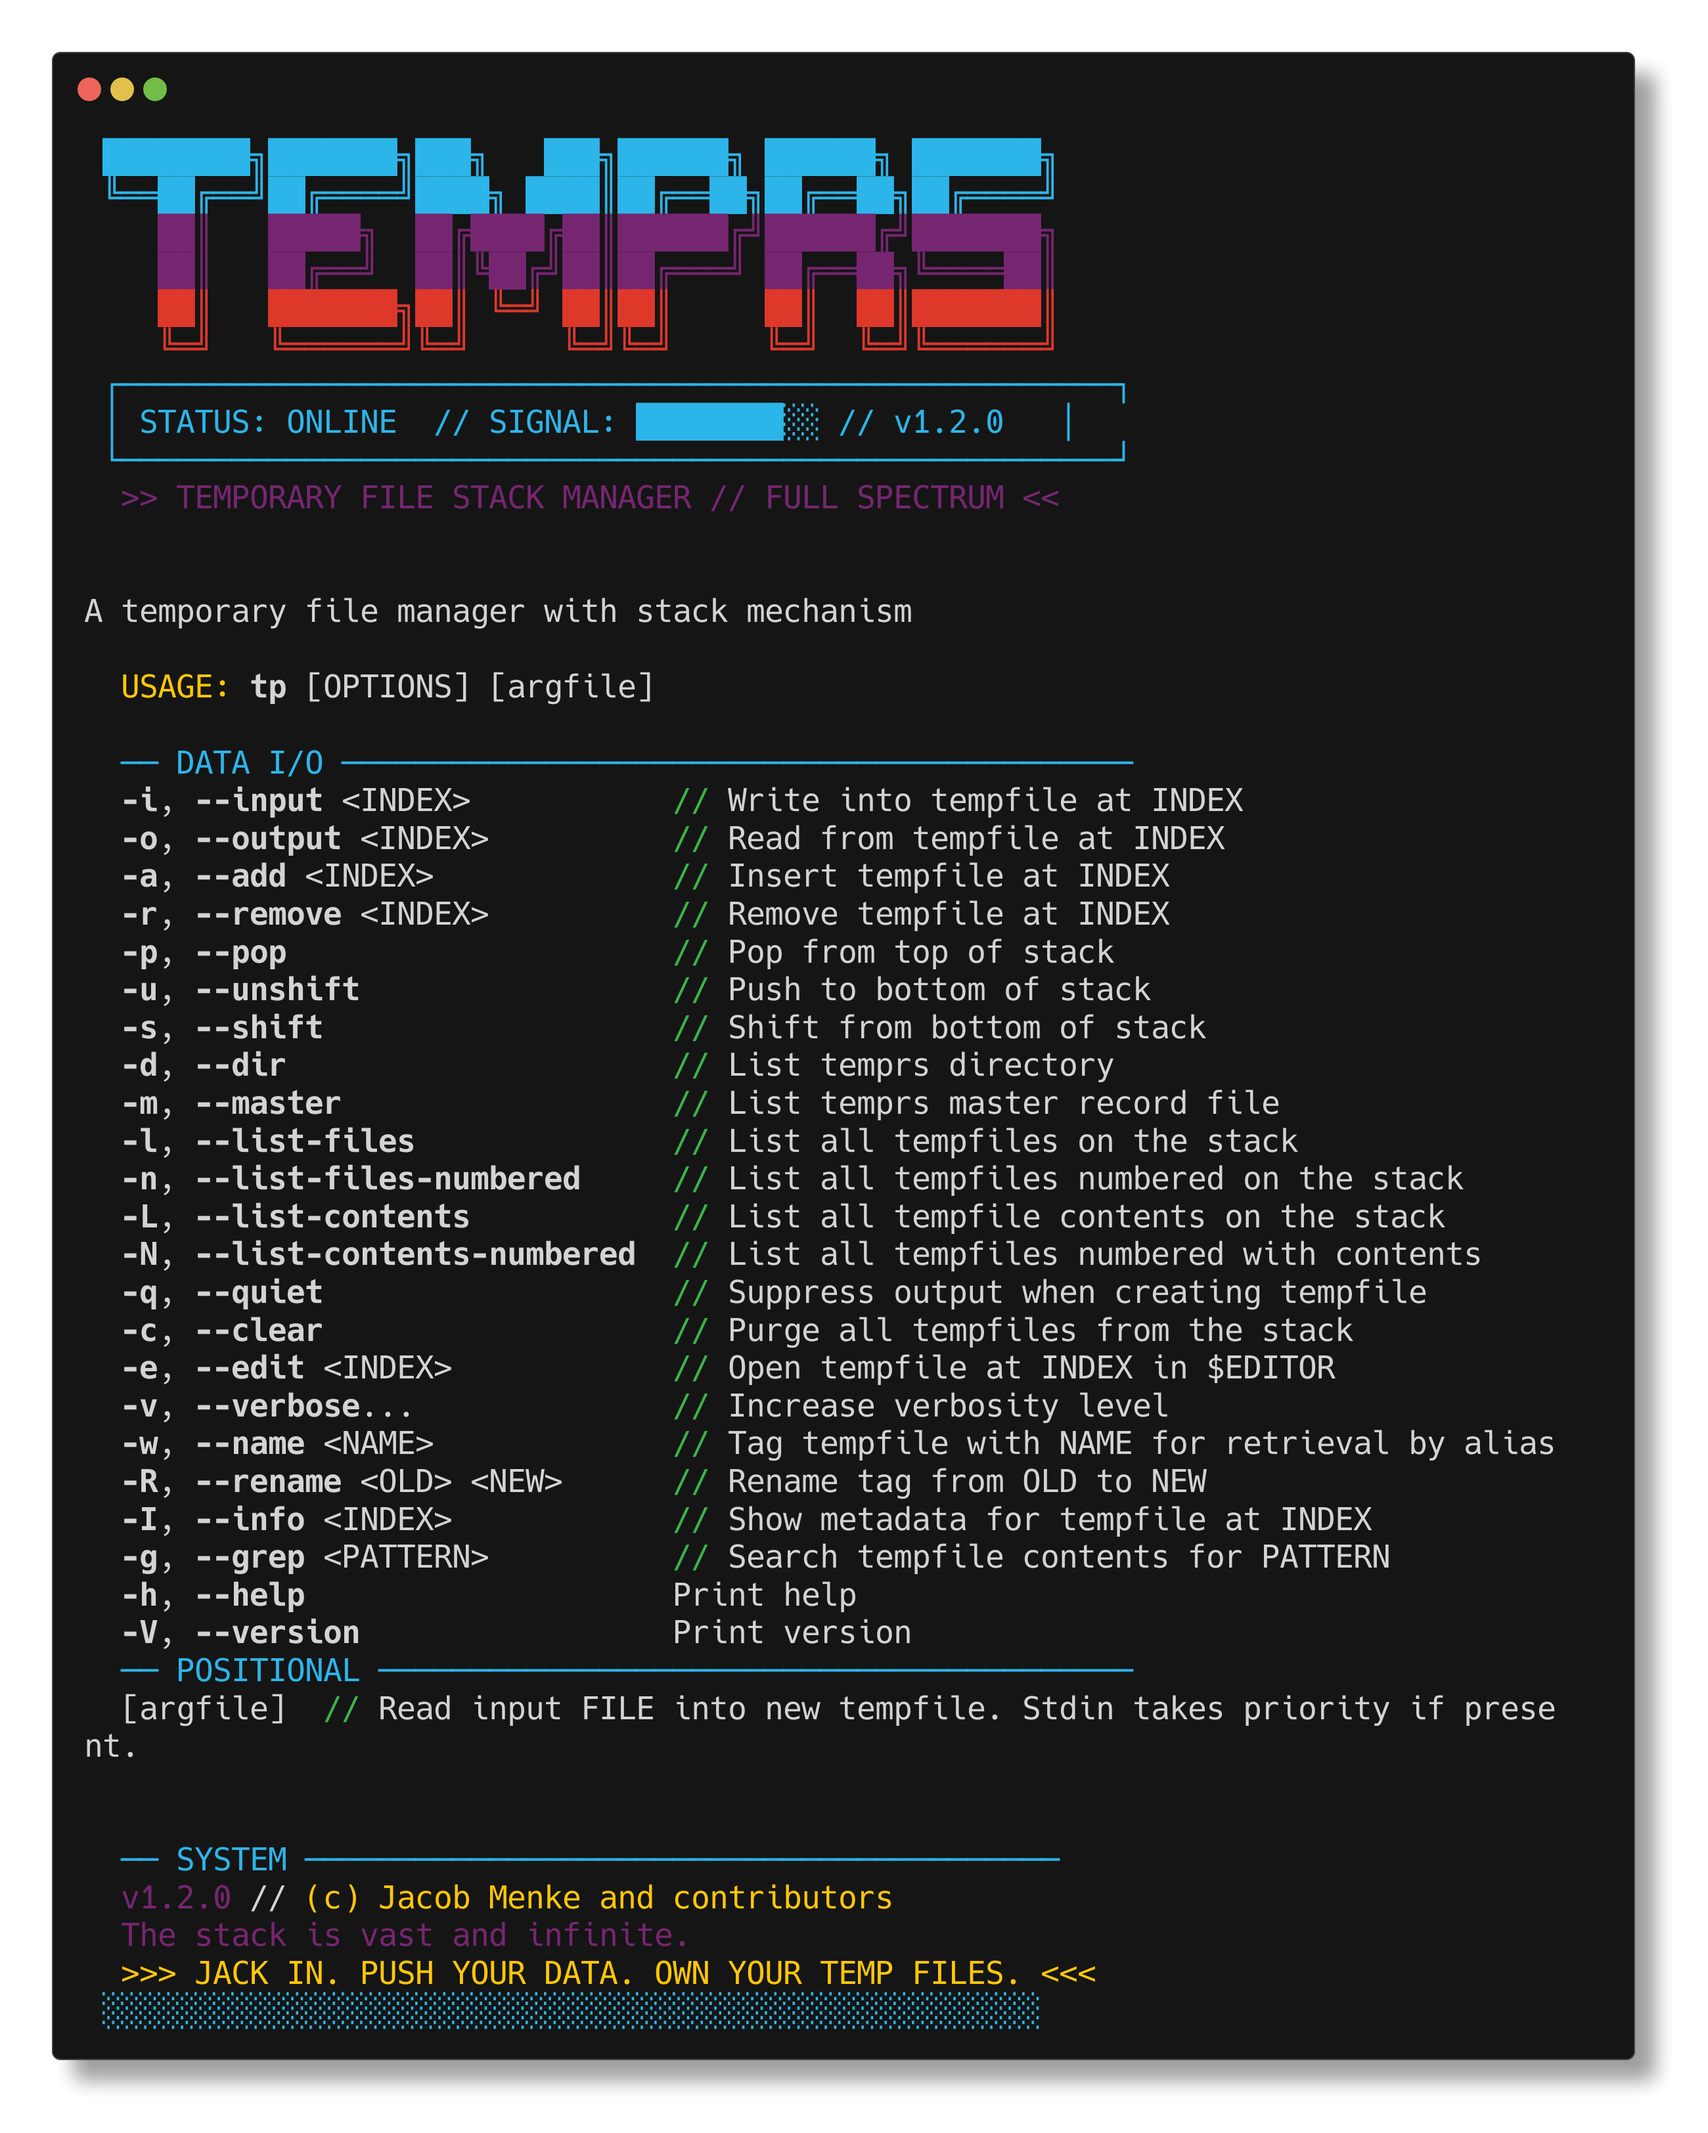
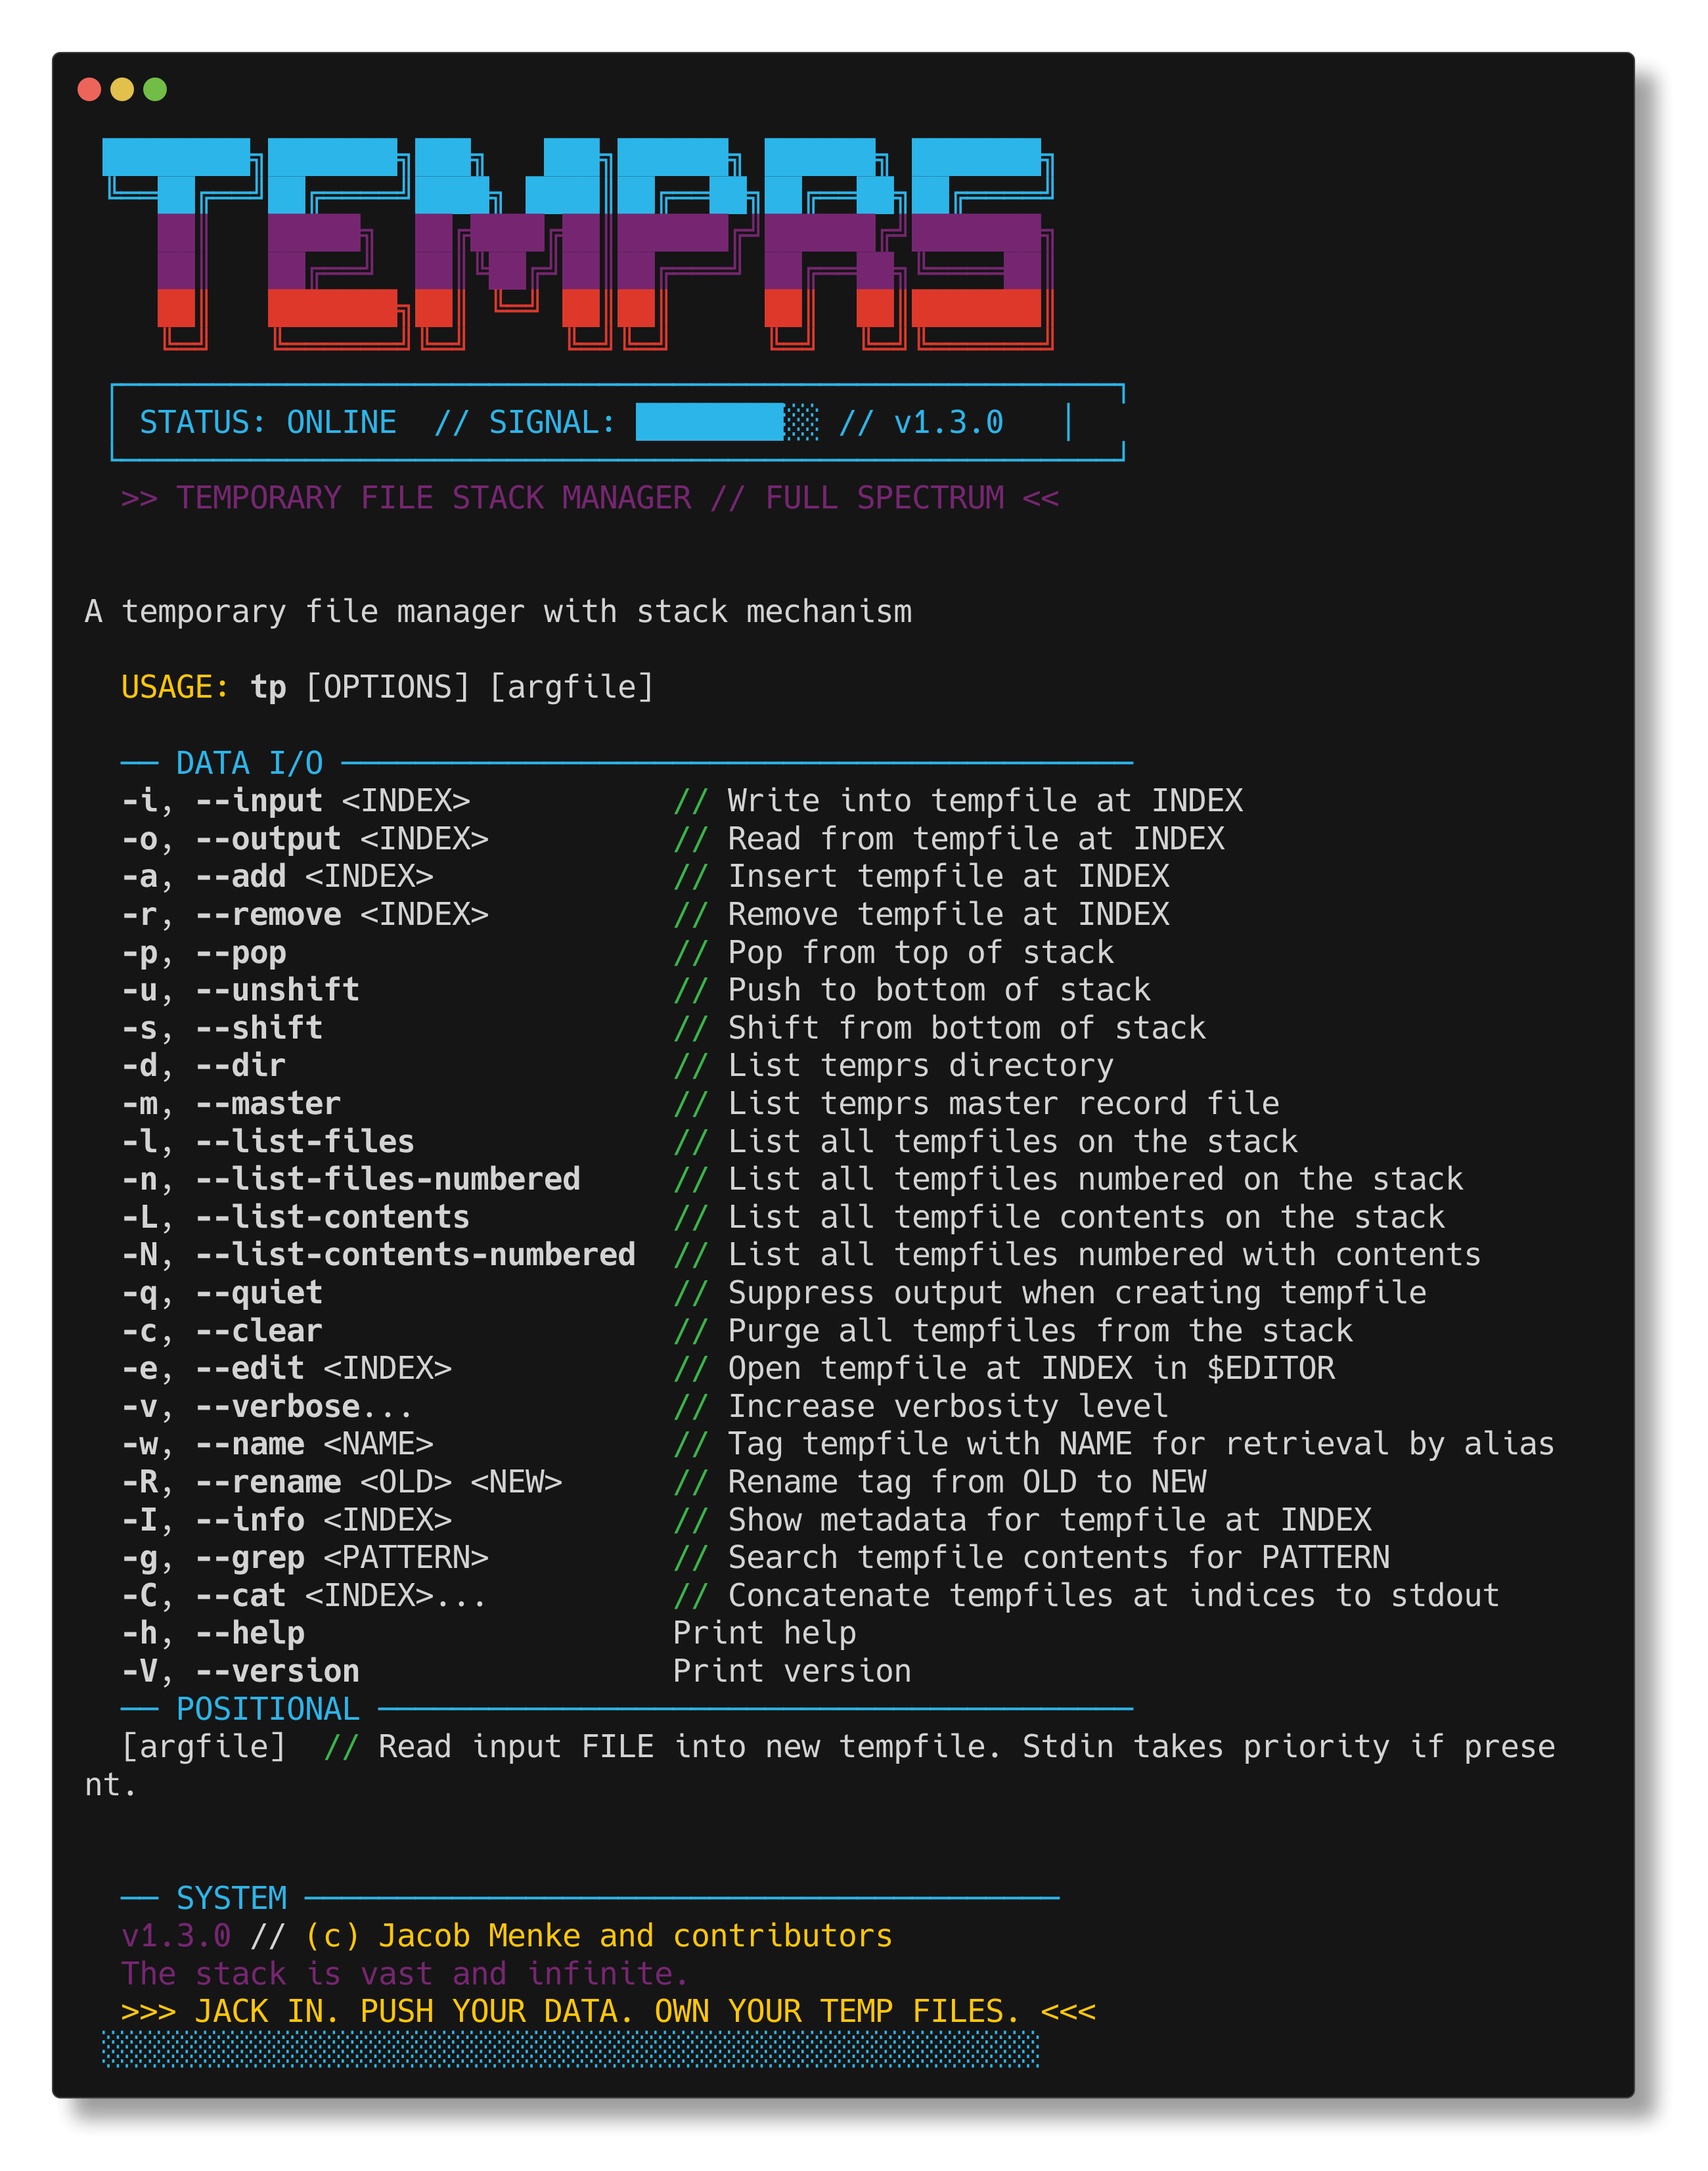
add cat/concatenate (-C), integration tests, bump version to 1.3.0

diff --git a/src/util/consts.rs b/src/util/consts.rs
@@ -36,6 +36,7 @@ pub const TAG: &str = "name";
 pub const RENAME: &str = "rename";
 pub const INFO: &str = "info";
 pub const GREP: &str = "grep";
+pub const CAT: &str = "cat";
 pub const ERR_INVALID_NAME: &str = "Invalid or duplicate name";
 pub const ERR_EDITOR: &str = "Could not open editor";
 
@@ -120,7 +121,7 @@ mod tests {
         let flags = vec![
             DIRECTORY, INPUT, OUTPUT, ADD, REMOVE, POP, UNSHIFT,
             ARGFILE, MASTER, VERBOSE, LIST_FILES, LIST_FILES_NUMBERED,
-            LIST_CONTENTS, LIST_CONTENTS_NUMBERED, CLEAR, SHIFT, SILENT, EDIT, TAG, RENAME, INFO, GREP,
+            LIST_CONTENTS, LIST_CONTENTS_NUMBERED, CLEAR, SHIFT, SILENT, EDIT, TAG, RENAME, INFO, GREP, CAT,
         ];
         let mut sorted = flags.clone();
         sorted.sort();
@@ -133,7 +134,7 @@ mod tests {
         let flags = vec![
             DIRECTORY, INPUT, OUTPUT, ADD, REMOVE, POP, UNSHIFT,
             ARGFILE, MASTER, VERBOSE, LIST_FILES, LIST_FILES_NUMBERED,
-            LIST_CONTENTS, LIST_CONTENTS_NUMBERED, CLEAR, SHIFT, SILENT, EDIT, TAG, RENAME, INFO, GREP,
+            LIST_CONTENTS, LIST_CONTENTS_NUMBERED, CLEAR, SHIFT, SILENT, EDIT, TAG, RENAME, INFO, GREP, CAT,
         ];
         for f in flags {
             assert_eq!(f, f.to_lowercase(), "flag '{}' should be lowercase", f);
@@ -352,7 +353,7 @@ mod tests {
         let flags = vec![
             DIRECTORY, INPUT, OUTPUT, ADD, REMOVE, POP, UNSHIFT,
             ARGFILE, MASTER, VERBOSE, LIST_FILES, LIST_FILES_NUMBERED,
-            LIST_CONTENTS, LIST_CONTENTS_NUMBERED, CLEAR, SHIFT, SILENT, EDIT, TAG, RENAME, INFO, GREP,
+            LIST_CONTENTS, LIST_CONTENTS_NUMBERED, CLEAR, SHIFT, SILENT, EDIT, TAG, RENAME, INFO, GREP, CAT,
         ];
         for f in flags {
             assert!(!f.contains(' '), "flag '{}' should not contain spaces", f);
@@ -366,7 +367,7 @@ mod tests {
         let flags = vec![
             DIRECTORY, INPUT, OUTPUT, ADD, REMOVE, POP, UNSHIFT,
             ARGFILE, MASTER, VERBOSE, LIST_FILES, LIST_FILES_NUMBERED,
-            LIST_CONTENTS, LIST_CONTENTS_NUMBERED, CLEAR, SHIFT, SILENT, EDIT, TAG, RENAME, INFO, GREP,
+            LIST_CONTENTS, LIST_CONTENTS_NUMBERED, CLEAR, SHIFT, SILENT, EDIT, TAG, RENAME, INFO, GREP, CAT,
         ];
         for f in flags {
             assert!(!f.is_empty(), "flag constant should not be empty");
@@ -380,7 +381,7 @@ mod tests {
         let flags = vec![
             DIRECTORY, INPUT, OUTPUT, ADD, REMOVE, POP, UNSHIFT,
             ARGFILE, MASTER, VERBOSE, LIST_FILES, LIST_FILES_NUMBERED,
-            LIST_CONTENTS, LIST_CONTENTS_NUMBERED, CLEAR, SHIFT, SILENT, EDIT, TAG, RENAME, INFO, GREP,
+            LIST_CONTENTS, LIST_CONTENTS_NUMBERED, CLEAR, SHIFT, SILENT, EDIT, TAG, RENAME, INFO, GREP, CAT,
         ];
         for f in flags {
             assert!(f.is_ascii(), "flag '{}' should be ASCII", f);
@@ -394,9 +395,9 @@ mod tests {
         let flags = vec![
             DIRECTORY, INPUT, OUTPUT, ADD, REMOVE, POP, UNSHIFT,
             ARGFILE, MASTER, VERBOSE, LIST_FILES, LIST_FILES_NUMBERED,
-            LIST_CONTENTS, LIST_CONTENTS_NUMBERED, CLEAR, SHIFT, SILENT, EDIT, TAG, RENAME, INFO, GREP,
+            LIST_CONTENTS, LIST_CONTENTS_NUMBERED, CLEAR, SHIFT, SILENT, EDIT, TAG, RENAME, INFO, GREP, CAT,
         ];
-        assert_eq!(flags.len(), 22);
+        assert_eq!(flags.len(), 23);
     }
 
     // ── naming conventions ──────────────────────────────

diff --git a/tests/integration.rs b/tests/integration.rs
@@ -89,7 +89,7 @@ fn help_shows_all_flags() {
         "--input", "--output", "--add", "--remove", "--pop", "--unshift",
         "--shift", "--dir", "--master", "--list-files", "--list-files-numbered",
         "--list-contents", "--list-contents-numbered", "--quiet", "--clear",
-        "--verbose", "--edit", "--name", "--rename", "--info", "--grep",
+        "--verbose", "--edit", "--name", "--rename", "--info", "--grep", "--cat",
     ] {
         assert!(text.contains(flag), "missing flag: {}", flag);
     }
@@ -1924,4 +1924,86 @@ fn edit_invalid_index_fails() {
         .output()
         .expect("failed to execute tp");
     assert!(!out.status.success());
+}
+
+// ── Cat (concatenate) ──────────────────────────────────
+
+#[test]
+fn cat_single_file() {
+    let dir = setup_clean_env();
+    run_tp_stdin(&dir, &[], "only one");
+    let out = run_tp(&dir, &["-C", "1"]);
+    assert!(out.status.success());
+    assert_eq!(stdout(&out), "only one");
+}
+
+#[test]
+fn cat_multiple_files() {
+    let dir = setup_clean_env();
+    run_tp_stdin(&dir, &[], "AAA\n");
+    tick();
+    run_tp_stdin(&dir, &[], "BBB\n");
+    tick();
+    run_tp_stdin(&dir, &[], "CCC\n");
+    let out = run_tp(&dir, &["-C", "1", "2", "3"]);
+    assert!(out.status.success());
+    assert_eq!(stdout(&out), "AAA\nBBB\nCCC\n");
+}
+
+#[test]
+fn cat_by_name() {
+    let dir = setup_clean_env();
+    run_tp_stdin(&dir, &["-w", "x"], "XX");
+    tick();
+    run_tp_stdin(&dir, &["-w", "y"], "YY");
+    let out = run_tp(&dir, &["-C", "x", "y"]);
+    assert!(out.status.success());
+    assert_eq!(stdout(&out), "XXYY");
+}
+
+#[test]
+fn cat_mixed_index_and_name() {
+    let dir = setup_clean_env();
+    run_tp_stdin(&dir, &["-w", "named"], "FIRST");
+    tick();
+    run_tp_stdin(&dir, &[], "SECOND");
+    let out = run_tp(&dir, &["-C", "named", "2"]);
+    assert!(out.status.success());
+    assert_eq!(stdout(&out), "FIRSTSECOND");
+}
+
+#[test]
+fn cat_reversed_order() {
+    let dir = setup_clean_env();
+    run_tp_stdin(&dir, &[], "AAA");
+    tick();
+    run_tp_stdin(&dir, &[], "BBB");
+    let out = run_tp(&dir, &["-C", "2", "1"]);
+    assert_eq!(stdout(&out), "BBBAAA");
+}
+
+#[test]
+fn cat_duplicate_index() {
+    let dir = setup_clean_env();
+    run_tp_stdin(&dir, &[], "DUP");
+    let out = run_tp(&dir, &["-C", "1", "1"]);
+    assert_eq!(stdout(&out), "DUPDUP");
+}
+
+#[test]
+fn cat_invalid_index_fails() {
+    let dir = setup_clean_env();
+    run_tp_stdin(&dir, &[], "data");
+    let out = run_tp(&dir, &["-C", "99"]);
+    assert!(!out.status.success());
+}
+
+#[test]
+fn cat_negative_index() {
+    let dir = setup_clean_env();
+    run_tp_stdin(&dir, &[], "FIRST");
+    tick();
+    run_tp_stdin(&dir, &[], "LAST");
+    let out = run_tp(&dir, &["-C", "-1"]);
+    assert_eq!(stdout(&out), "LAST");
 }

diff --git a/src/model/app.rs b/src/model/app.rs
@@ -349,6 +349,10 @@ impl TempApp {
         if let Some(p) = matches.get_one::<String>(GREP) {
             self.grep_tempfiles(p.clone());
         }
+        if let Some(vals) = matches.get_many::<String>(CAT) {
+            let v: Vec<String> = vals.cloned().collect();
+            self.cat_tempfiles(v);
+        }
         if let Some(vals) = matches.get_many::<String>(RENAME) {
             let v: Vec<String> = vals.cloned().collect();
             self.rename_tag(v[0].clone(), v[1].clone());
@@ -446,6 +450,26 @@ impl TempApp {
                 .expect(ERR_NO_FILE),
         ) {
             util_terminate_error(ERR_NO_FILE);
+        }
+        exit(0)
+    }
+
+    fn cat_tempfiles(&mut self, indices: Vec<String>) {
+        let mut combined = String::new();
+        for idx_str in &indices {
+            match self.resolve_idx(idx_str) {
+                Some(idx) => {
+                    let path = &self.state().temp_file_stack()[idx];
+                    let content = util_file_contents_to_string(path.as_path()).expect(ERR_FILE_READ);
+                    combined.push_str(&content);
+                }
+                None => util_terminate_error(ERR_INVALID_IDX),
+            }
+        }
+        if io::stdout().is_terminal() {
+            cyber_print_content(&combined);
+        } else {
+            print!("{}", combined);
         }
         exit(0)
     }

diff --git a/src/model/opts.rs b/src/model/opts.rs
@@ -156,6 +156,13 @@ pub fn parse_opts() -> Command {
             .long("grep")
             .value_name("PATTERN")
             .help("\x1b[32m//\x1b[0m Search tempfile contents for PATTERN"))
+        .arg(Arg::new(CAT)
+            .short('C')
+            .long("cat")
+            .value_name("INDEX")
+            .num_args(1..)
+            .allow_hyphen_values(true)
+            .help("\x1b[32m//\x1b[0m Concatenate tempfiles at indices to stdout"))
 }
 
 #[cfg(test)]
@@ -561,7 +568,7 @@ mod tests {
         let custom_count = app.get_arguments()
             .filter(|a| a.get_id() != "help" && a.get_id() != "version")
             .count();
-        assert_eq!(custom_count, 22);
+        assert_eq!(custom_count, 23);
     }
 
     // ── flag mutual independence ────────────────────────

diff --git a/README.md b/README.md
@@ -200,6 +200,19 @@ tp -g PATTERN
 tp -g needle && echo "found"
 ```
 
+#### CONCATENATING TEMPFILES // MERGE
+
+```sh
+# concatenate tempfiles by index
+tp -C 1 2 3 | CMD
+
+# concatenate by name
+tp -C alpha beta | CMD
+
+# mix indices and names, any order
+tp -C 3 alpha 1
+```
+
 #### STACK MANIPULATION // PUSH / POP / SHIFT
 
 ```sh
